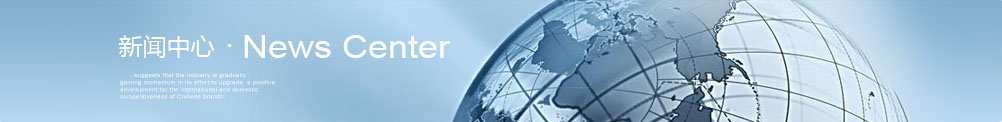
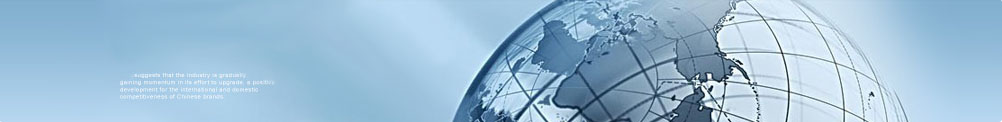
Add contact us page

Changed region(s): [[0.0928, 0.2705, 0.4641, 0.4918]]

diff --git a/ibati/templates/contact-us.html b/ibati/templates/contact-us.html
@@ -1,78 +1,63 @@
 {% extends 'base.html' %}
 {% block title %}西安交通大学生物医学分析技术与仪器研究所{% endblock %}
 {% block content %}
-        <!-- Page Title -->
-		<div class="section section-breadcrumbs">
-			<div class="container">
-				<div class="row">
-					<div class="col-md-6">
-						<h1>联系我们</h1>
-					</div>
-				</div>
-			</div>
-		</div>
-        
-        <div class="section">
-	    	<div class="container">
-	        	<div class="row">
-	        		<div class="col-sm-7">
-	        			<!-- Map -->
-	        			<div id="contact-us-map">
+		<div class="banner" style="margin-top:6px"><img src="{{ url_for('static', filename='images/ban5.jpg') }}" width="1002" height="122" /></div>
 
-	        			</div>
-	        			<!-- End Map -->
-	        			<!-- Contact Info -->
-	        			<p class="contact-us-details">
-	        				<b>地址：</b>陕西省西安市咸宁西路28号<br/>
-	        				<b>电话：</b>+86 0000000000<br/>
-	        				<b>邮箱：</b><a href="mailto:getintoutch@yourcompanydomain.com">getintoutch@yourcompanydomain.com</a>
-	        			</p>
-	        			<!-- End Contact Info -->
-	        		</div>
-	        		<div class="col-sm-5">
-	        			<!-- Contact Form -->
-	        			<h3>给我们留言</h3>
-	        			<div class="contact-form-wrapper">
-		        			<form class="form-horizontal" role="form">
-		        				 <div class="form-group">
-		        				 	<label for="Name" class="col-sm-3 control-label"><b>您的姓名</b></label>
-		        				 	<div class="col-sm-9">
-										<input class="form-control" id="Name" type="text" placeholder="">
-									</div>
+        <div class="aboutz">
+            <div class="aboutzleft">
+                <div class="aboutzleftdao">
+                    <table width="100%" border="0" cellspacing="0" cellpadding="0" height="30">
+                        <tr>
+                            <td width="6%"><img src="{{ url_for('static', filename='images/li.jpg') }}" width="8" height="8" /></td>
+                            <td width="94%">联系我们<font class="wen3">Contact us</font></td>
+                        </tr>
+                    </table>
+                </div>
+                <div class="aboutzleftmeun">
+                    <ul>
+
+                    </ul>
+                </div>
+            </div>
+            <!--left-->
+            <div class="aboutrig">
+                <div class="aboutrigdao">
+                    <table width="100%" border="0" cellspacing="0" cellpadding="0">
+                        <tr>
+                            {#
+                            <td width="2%">
+                                <img src="{{ url_for('static', filename='images/li2.jpg') }}" width="11" height="11" />
+                            </td>
+                            <td width="36%">
+                                <font class="wen4">单位简介</font>
+                            </td>
+                            #}
+
+                            <td width="62%" align="right">
+                                <div align="right" class="wz004">
+                                    <img src="{{ url_for('static', filename='images/index_21.jpg') }}" /> 您的位置：<a href="{{ url_for('home.index') }}">首页</a>
+                                    <img src="{{ url_for('static', filename='images/jiao.gif') }}" /><a href="">联系我们</a>
 								</div>
-								<div class="form-group">
-									<label for="contact-email" class="col-sm-3 control-label"><b>您的邮箱</b></label>
-									<div class="col-sm-9">
-										<input class="form-control" id="contact-email" type="text" placeholder="">
-									</div>
-								</div>
-								<div class="form-group">
-									<label for="contact-message" class="col-sm-3 control-label"><b>选择主题</b></label>
-									<div class="col-sm-9">
-										<select class="form-control" id="prependedInput">
-											<option>请选择一个主题……</option>
-											<option>普通</option>
-											<option>服务</option>
-											<option>订单</option>
-										</select>
-									</div>
-								</div>
-								<div class="form-group">
-									<label for="contact-message" class="col-sm-3 control-label"><b>留言内容</b></label>
-									<div class="col-sm-9">
-										<textarea class="form-control" rows="5" id="contact-message"></textarea>
-									</div>
-								</div>
-								<div class="form-group">
-									<div class="col-sm-12">
-										<button type="submit" class="btn pull-right">发送</button>
-									</div>
-								</div>
-		        			</form>
-		        		</div>
-		        		<!-- End Contact Info -->
-	        		</div>
-	        	</div>
-	    	</div>
-	    </div>
+                            </td>
+                        </tr>
+                    </table>
+                </div>
+                <div class="left"><img src="{{ url_for('static', filename='images/rigxian.jpg') }}" /></div>
+                <div class="aboutrignei">
+					<div>
+						<p class="contact-us-details" style="float: left;">
+							<b>单位名称：</b>西安交通大学 生物医学分析技术与仪器研究所<br/>
+							<b>地址：</b>陕西省西安市咸宁西路28号<br/>
+							<b>电话：</b>+86 0000000000<br/>
+							<b>邮箱：</b>getintoutch@yourcompanydomain.com<br />
+						</p>
+						<div style="float: right;">
+							<img src="http://api.map.baidu.com/staticimage?width=420&height=315&center=108.991898,34.245953&zoom=14&markers=108.989023,34.253771&markerStyles=m" />
+
+						</div>
+					</div>
+                </div>
+            </div>
+            <div class="both"></div>
+        </div>
 {% endblock %}

diff --git a/ibati/templates/footer.html b/ibati/templates/footer.html
@@ -13,8 +13,8 @@
                         <a href="service.aspx" class="wen2">服务与支持</a> |
                         <a href="about_view.aspx?cate_id=66" class="wen2">人才招聘</a> |
                          #}
-                        <a href="#" class="wen2">联系我们</a> |
-                        <a href="#" class="wen2">在线留言</a> |
+                        <a class="wen2" href="{{ url_for('home.contact_us') }}">联系我们</a> |
+                        {# <a href="#" class="wen2">在线留言</a> | #}
                         <a class="wen2" href="{{ url_for('admin.index') }}">管理入口</a>
                     </td>
                 </tr>

diff --git a/ibati/templates/header.html b/ibati/templates/header.html
@@ -39,7 +39,7 @@
                             {% endif %}
                         </li>
                         {% endfor %}
-                        <li><a href="#">联系我们</a></li>
+                        <li><a href="{{ url_for('home.contact_us') }}">联系我们</a></li>
                     </ul>
                 </div>
             </div>
